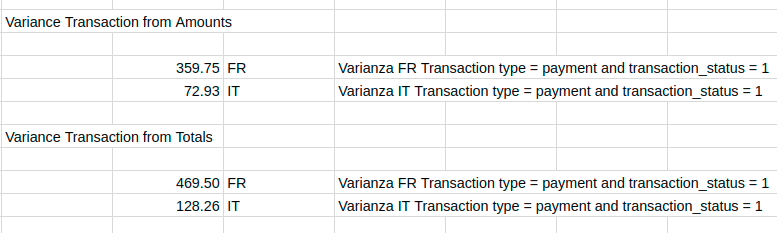
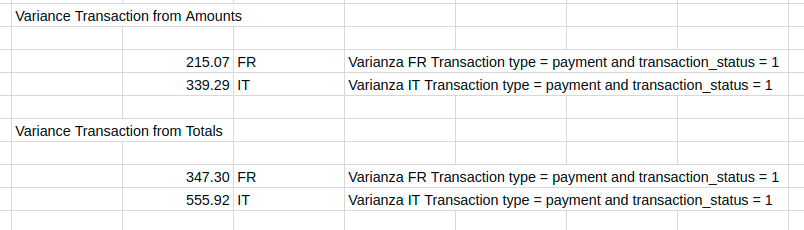
Assignment 2a finished

diff --git a/unit2/2018-11-17/assignments/assignment_2_a_statistically_significant/readme.md b/unit2/2018-11-17/assignments/assignment_2_a_statistically_significant/readme.md
@@ -13,6 +13,16 @@ You should answer the question by writing a brief summary.
 Hint: “Meaningful” can be interpreted as “statistically significant”.
 
 
+## Result
+
+Ticket average under these constraints comparing FR vs IT is not statistically significant.
+* Ticket is calculated excluding VAT.
+* Transaction type is "payment"
+* Transaction status is "1" 
+
+See steps section for more info.
+
+
 ## Steps
 
 1. First lets remember when is a difference "stastitically significant".
@@ -47,15 +57,33 @@ Sum of transaction_amount-s where;
 3. Calculate Variances:
 ```
 =IF(AND(H2 = 1, I2="payment"),"1","")
-=VAR(FILTER(M2:M100, P2:P100 = "1", K2:K100 = "FR")) 
+=VAR(FILTER(M2:M13770, P2:P13770 = "1", K2:K13770 = "FR")) 
 ```
 ![image](img_2.png)
 
 
+4. Taking as true FR data, lets see if retults in Italia are the same:
+
+H0: X =  μ 
+H1: X != μ
 
 
+μ =  media poblacional = 22,62
+X = media muestral = 21.56
+n = Tamaño de la muestra = 3589
+α = Nivel de significancia = 5% = 0.005
+θ = Varianza = 215.07
 
+Como n>= 30 se usará Tc
 
+Quedaría así:
+```
+=(21.58-22.62)/(215.07/SQRT(3589))
+```
+
+Esto da -0.29.
+Este número está en la zona de aceptación de H0.
+Si H0 se acepta, podríamos decir que la diferencia no es estadísticamente relevante.
 
 
 ```

diff --git a/unit2/2018-11-17/assignments/assignment_2_b_aggregate_data/readme.md b/unit2/2018-11-17/assignments/assignment_2_b_aggregate_data/readme.md
@@ -1,0 +1,26 @@
+# Assignment 2b: Aggregate Data
+
+
+## Task
+
+* Which are our top countries in sales (which currency?).
+* Also, do you consider how many invalid transactions we have?
+* What is the refund rate?
+
+## Steps
+
+
+
+
+
+
+
+
+
+
+
+
+
+
+
+  
